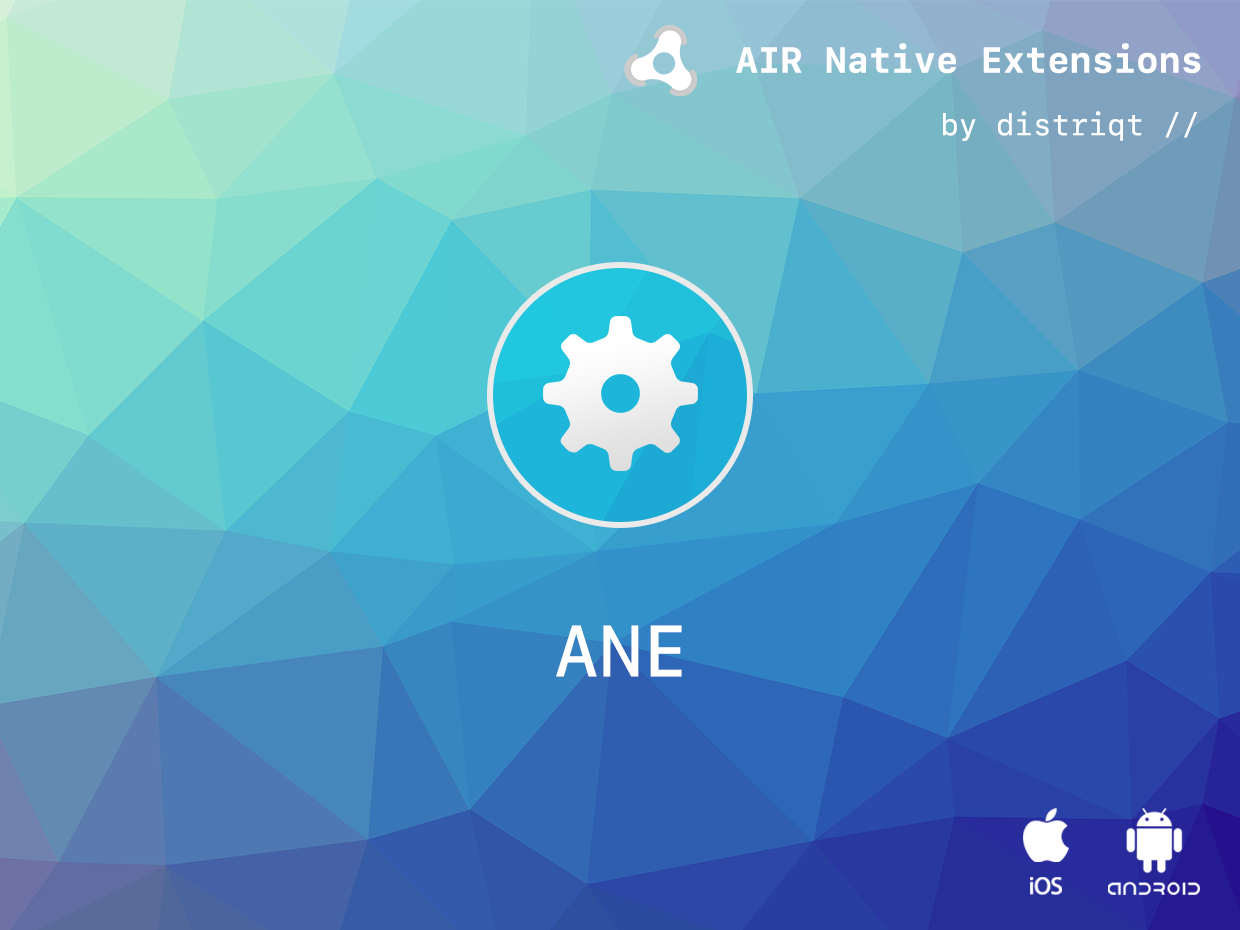
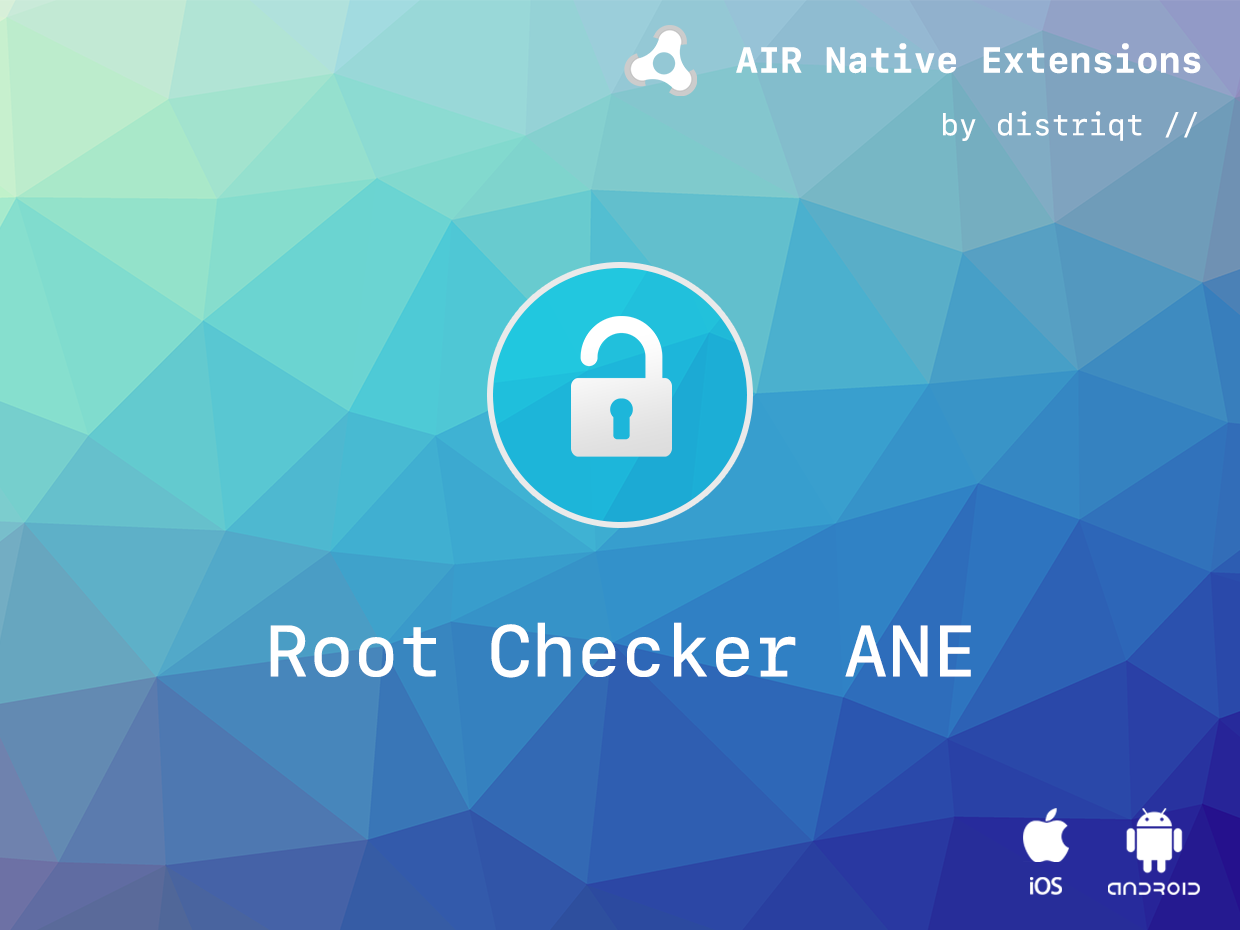
Updated images

diff --git a/CHANGELOG.md b/CHANGELOG.md
@@ -3,6 +3,13 @@
 ###### 2019.11.11 [v0.1.005]
 
 ```
+Updated images
+```
+
+
+###### 2019.11.11 [v0.1.005]
+
+```
 Added license + updates images
 ```
 
